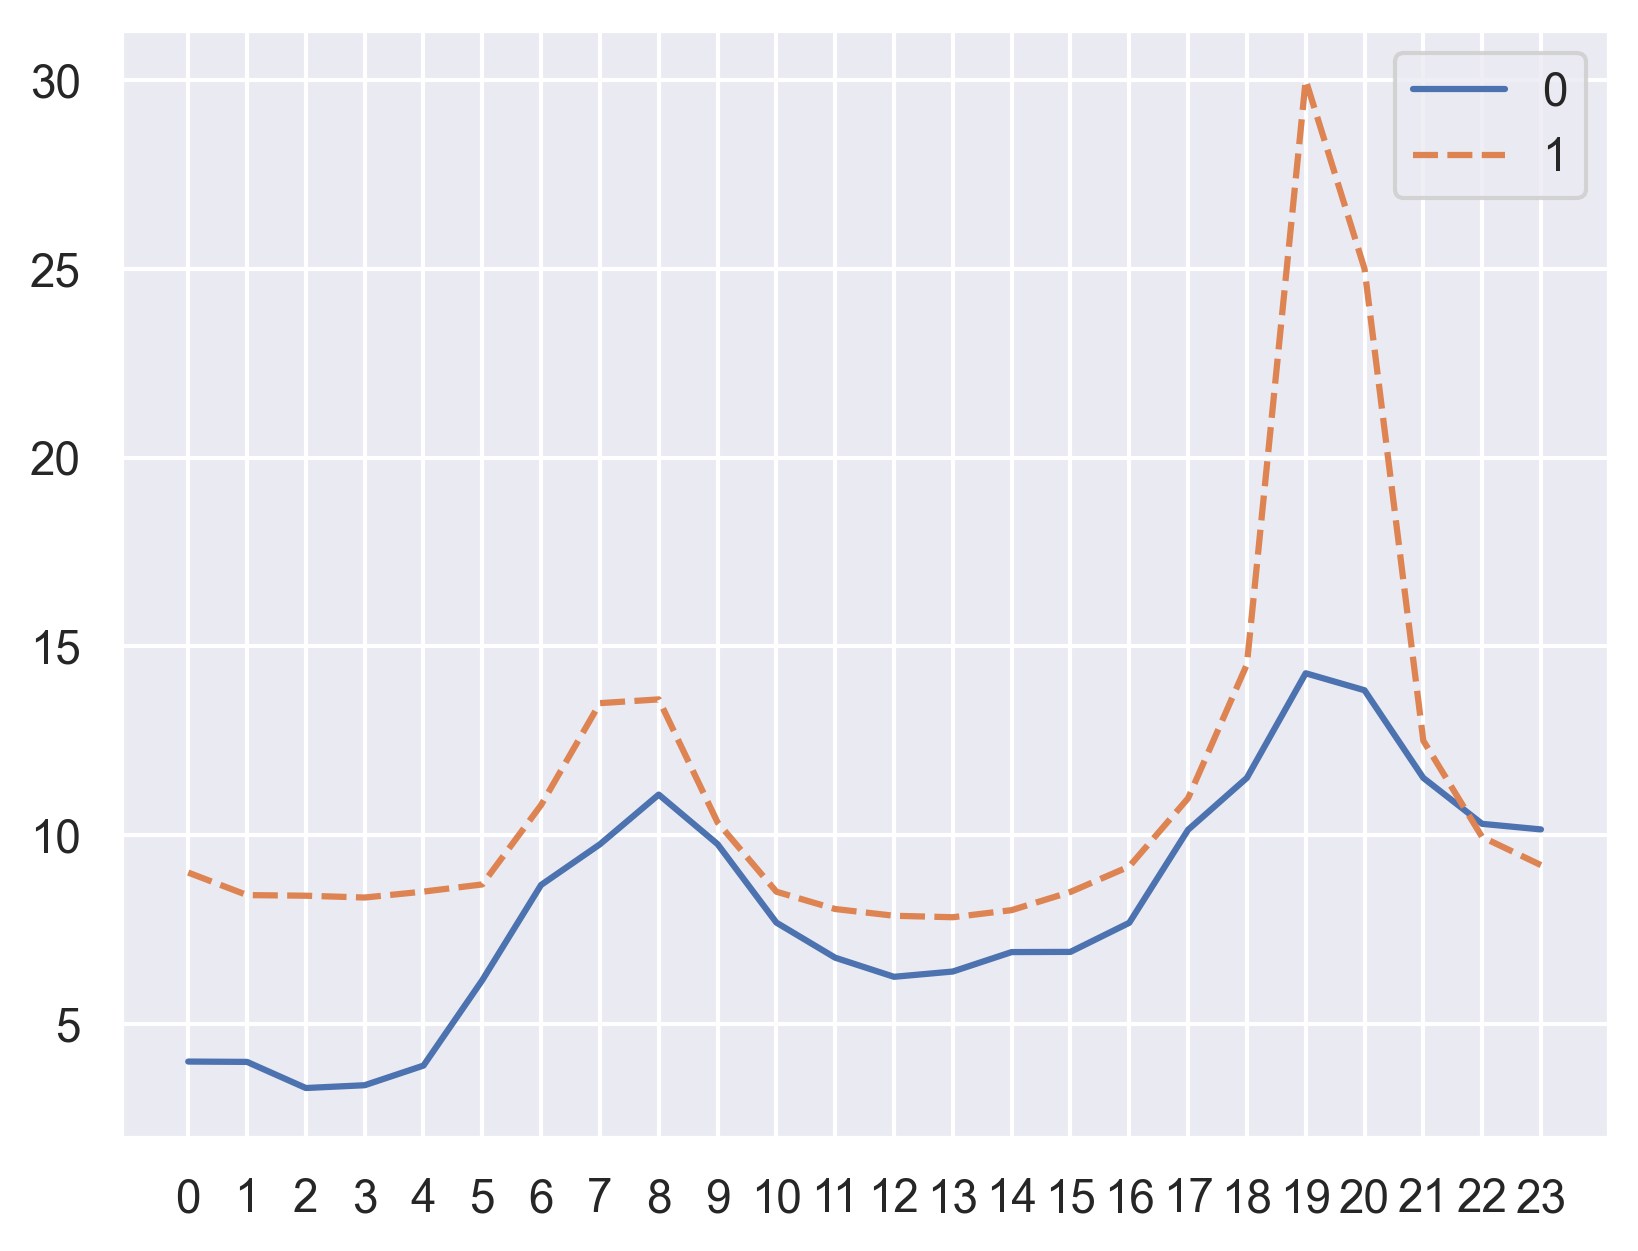
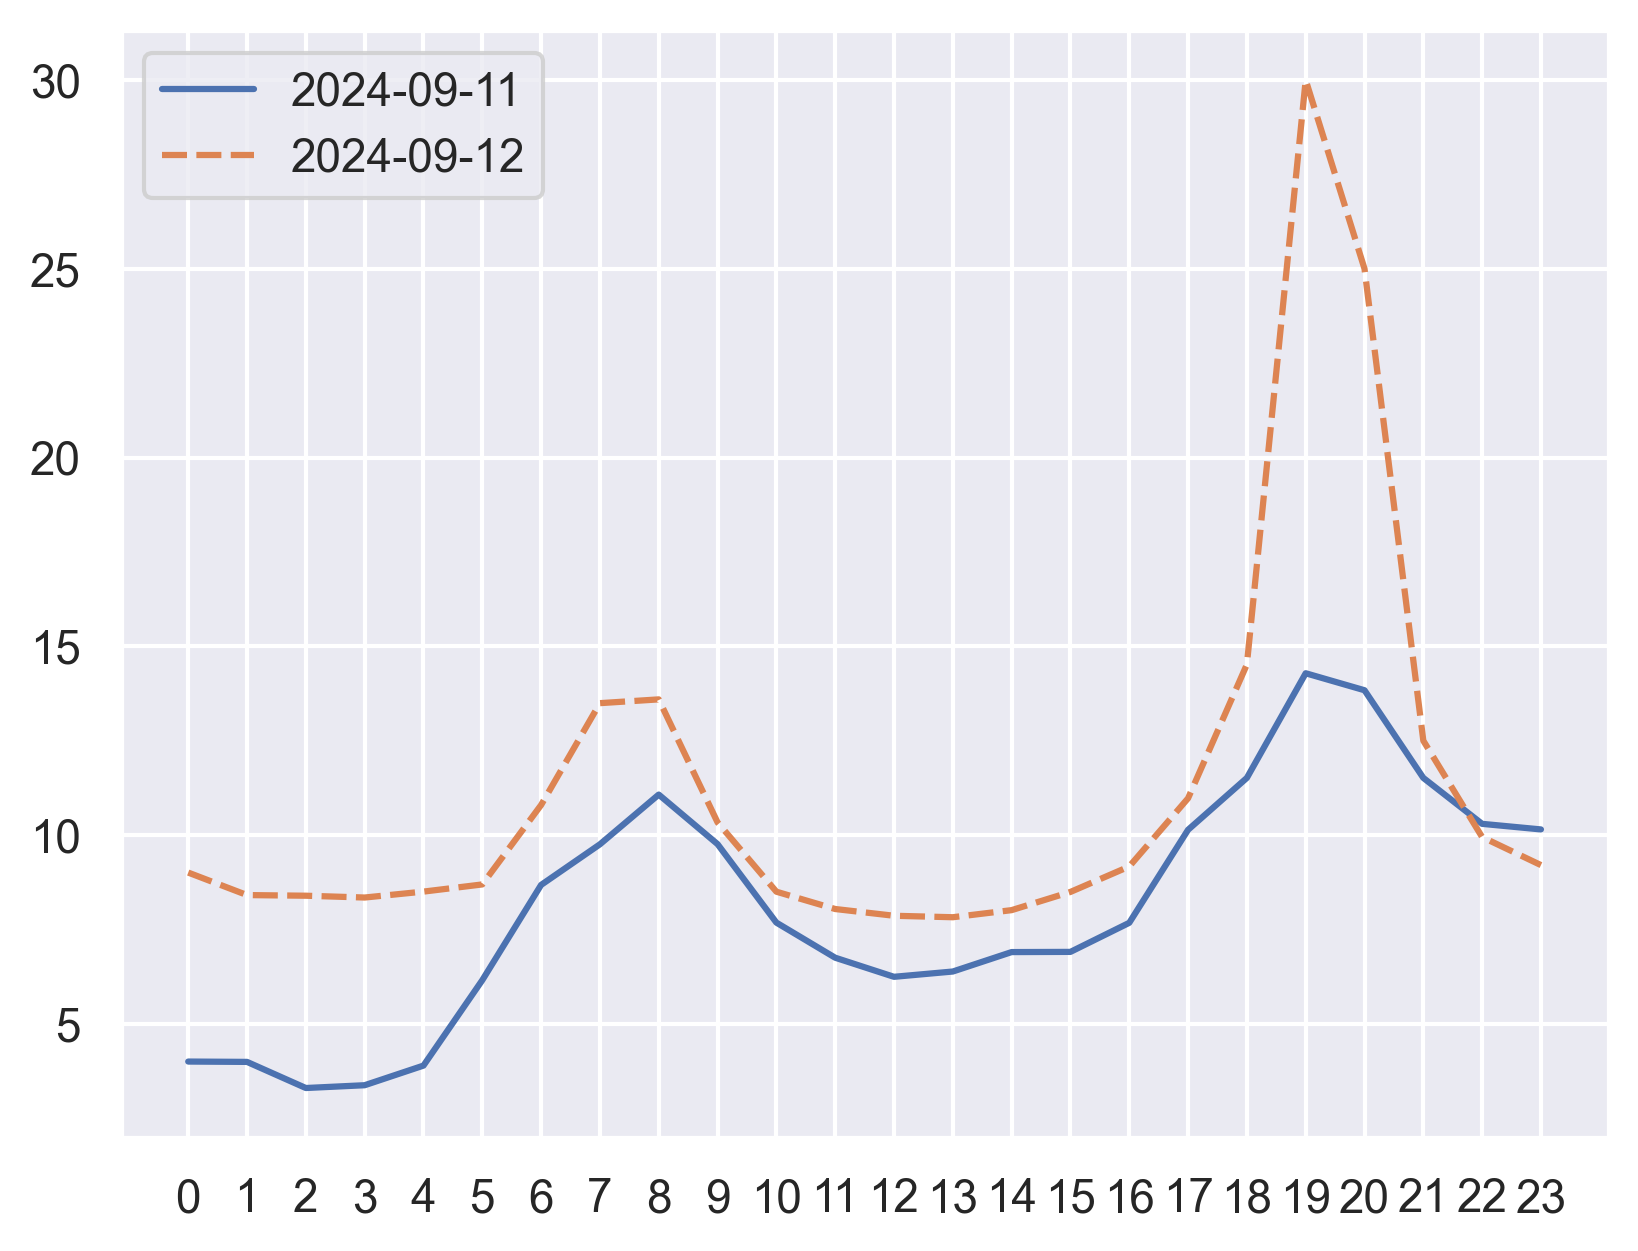
added info about how to get david_tokenˆ

Changed region(s): [[0.0934, 0.0312, 0.3425, 0.1871], [0.8407, 0.0312, 0.9652, 0.1247], [0.8718, 0.1559, 0.9652, 0.1871]]

diff --git a/main.py b/main.py
@@ -11,6 +11,7 @@ sns.set_theme()
 def main():
 
     url = "https://davis.vattenfall.de/api/digitalinterface/1.3/Produkt/GetSpotPreis"
+    davis_token = 'access.ufu4XeozLP9+8CriHgQIUB+rLYRhcc9uKGe602wAHTSuAMRUsK048NIxuG+U.na1A0jFuEGMu1Kev'
 
     current_date = date.today().strftime("%Y-%m-%d")
 
@@ -44,7 +45,7 @@ def main():
     'Sec-Fetch-Mode': 'cors',
     'Sec-Fetch-Site': 'same-site',
     'User-Agent': 'Mozilla/5.0 (Macintosh; Intel Mac OS X 10_15_7) AppleWebKit/537.36 (KHTML, like Gecko) Chrome/128.0.0.0 Safari/537.36',
-    'davis-token': 'access.tZzWtigQvYNCdBEs5XTH/iHfSQ37EV9+hoYHwoL0/G06gNeIN78srva8UQe9.9TAhJrMkwHsR84F6',
+    'davis-token': davis_token,
     'sec-ch-ua': '"Chromium";v="128", "Not;A=Brand";v="24", "Google Chrome";v="128"',
     'sec-ch-ua-mobile': '?0',
     'sec-ch-ua-platform': '"macOS"',
@@ -54,10 +55,12 @@ def main():
     response = requests.request("POST", url, headers=headers, data=payload)
 
     response_json = json.loads(response.text)
-    # prettry print response_json JSON to see the response
-    df = pd.DataFrame([tag["WerteNetto"] for tag in response_json['Result']['Tage']])
 
-    # print(df)
+    print(response_json)
+
+    df = pd.DataFrame([tag["WerteNetto"] for tag in response_json['Result']['Tage']],
+
+                      index=[tag["Datum"] for tag in response_json['Result']['Tage']])
 
     sns.lineplot(data=df.transpose(),)
 

diff --git a/README.md b/README.md
@@ -1,12 +1,19 @@
 # Strom Börsenpreis
 
-Get current German electricity prices from [Vattenfall Börsenpreise](https://www.vattenfall.de/strom/tarife/oekostrom-dynamik-boersenpreise) and create a diagram with today's and tomorrow's prices (if available).
+Get current German electricity prices from [Vattenfall Börsenpreise](https://www.vattenfall.de/strom/tarife/oekostrom-dynamik-boersenpreise) and create a diagram with today's and 
+tomorrow's prices (if available).
 
 ![Sample diagram](./dual_timeline_plot.png)
+
+You need to fill the `david_token` variable before calling the program or it will result in an error. You can get the
+token by opening the website in your browser and copying it from the (Chrome) Developer Tools *Network* tab when
+switching the date:
+
+![Davis Token](./davis-token.png)
 
 Testing Python 3.13 with this project. (Noticed that pandas 2.2.2 needed to be compiled on macOS with 3.13).
 
 ## TODO
 
-* [ ] Add functionality to get davis-token (required)
-* [ ] Add today and tomorrow labels
+* [ ] ~~Add functionality to get davis-token (required)~~
+* [x] Add today and tomorrow labels
